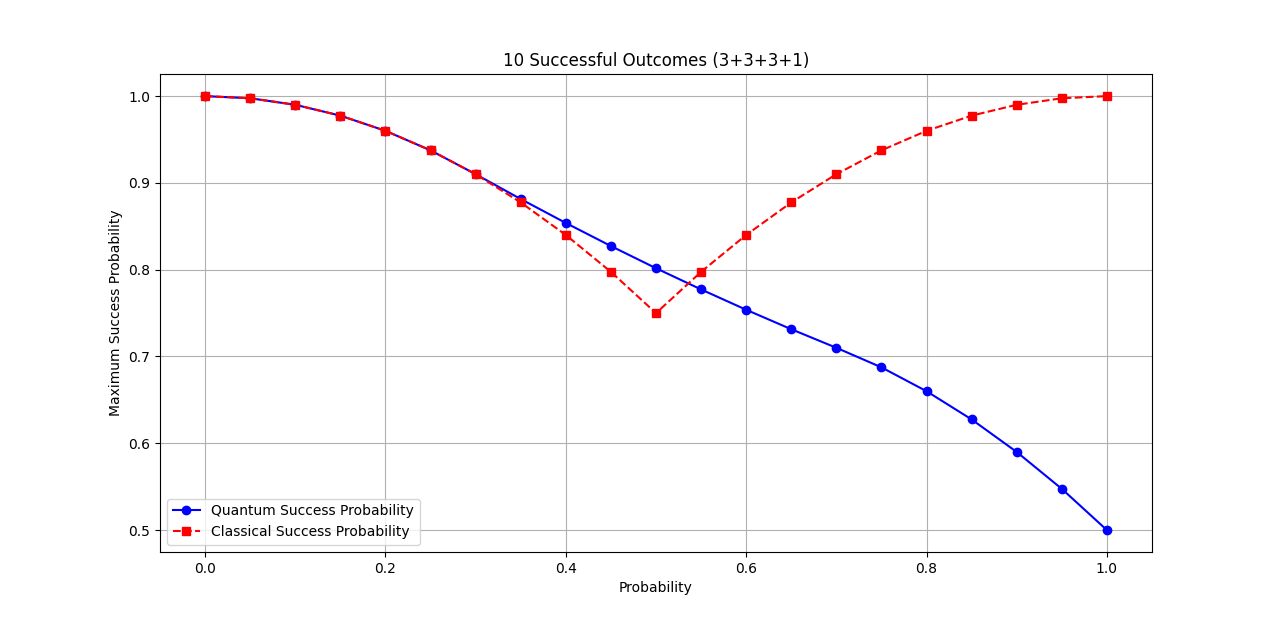
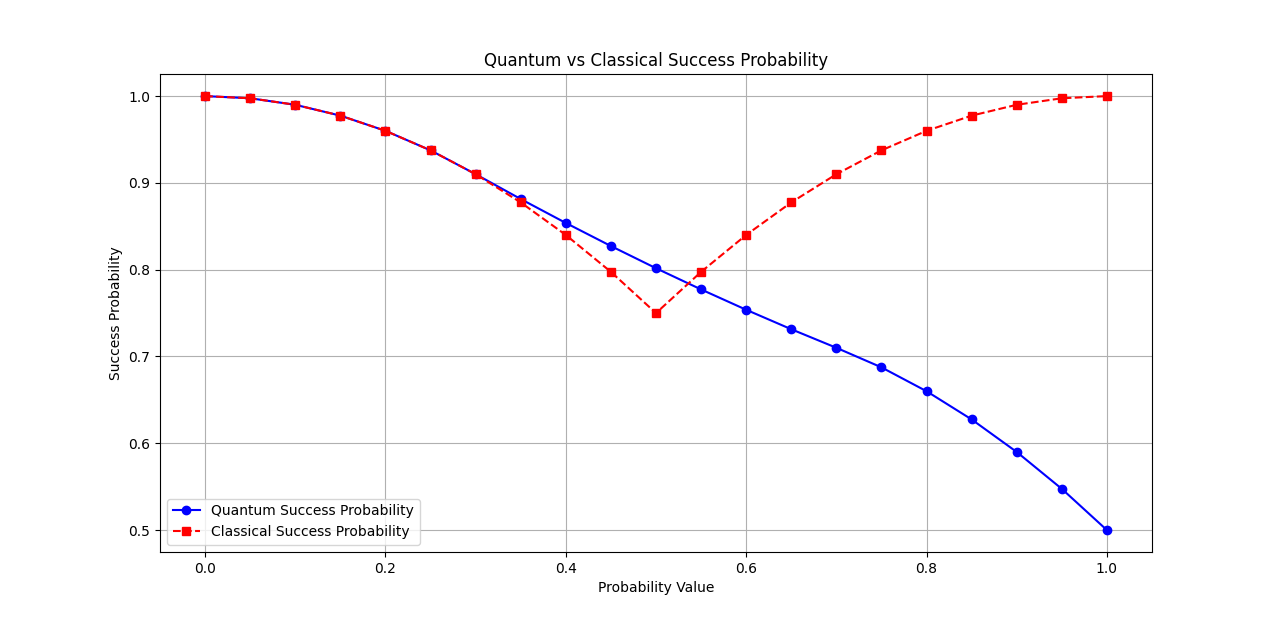
ALL CORRECTIONS DONE!!!

Changed region(s): [[0.375, 0.0613, 0.6562, 0.1226], [0.0625, 0.3677, 0.0938, 0.6742], [0.4688, 0.9194, 0.5625, 0.9806]]

diff --git a/9win_finalplot.py b/9win_finalplot.py
@@ -1,21 +1,27 @@
+import numpy as np
 import matplotlib.pyplot as plt
 
-# Data for plotting
-probability_values = [0, 0.05, 0.1, 0.15, 0.2, 0.25, 0.3, 0.35, 0.4, 0.45, 0.5, 0.55, 0.6, 0.65, 0.7, 0.75, 0.8, 0.85, 0.9, 0.95, 1]
-quantum_success_prob = [1, 0.97375, 0.945, 0.91375, 0.880408, 0.851038, 0.827614, 0.809987, 0.79817, 0.792217, 0.792036, 0.797827, 0.809341, 0.826849, 0.85, 0.875, 0.9, 0.925, 0.95, 0.975, 1]
-classical_success_prob = [1, 0.9975, 0.99, 0.9775, 0.96, 0.9375, 0.91, 0.8775, 0.84, 0.7975, 0.75, 0.7975, 0.84, 0.8775, 0.91, 0.9375, 0.96, 0.9775, 0.99, 0.9975, 1]
+# Data
+probability_values = np.array([0, 0.05, 0.1, 0.15, 0.2, 0.25, 0.3, 0.35, 0.4, 0.45, 0.5, 
+                               0.55, 0.6, 0.65, 0.7, 0.75, 0.8, 0.85, 0.9, 0.95, 1])
+quantum_success = np.array([1, 0.97375, 0.945, 0.91375, 0.880408, 0.851038, 0.827614, 
+                            0.809987, 0.79817, 0.792217, 0.792036, 0.797827, 0.809341, 
+                            0.826849, 0.85, 0.875, 0.9, 0.925, 0.95, 0.975, 1])
+classical_success = np.array([1, 0.9975, 0.99, 0.9775, 0.96, 0.9375, 0.91, 0.8775, 0.84, 
+                              0.7975, 0.75, 0.7975, 0.84, 0.8775, 0.91, 0.9375, 0.96, 
+                              0.9775, 0.99, 0.9975, 1])
 
-# Create plot
-plt.figure(figsize=(10, 6))
-plt.plot(probability_values, quantum_success_prob, label="Maximum Quantum Success Probability", color="blue", marker='o')
-plt.plot(probability_values, classical_success_prob, label="Maximum Classical Success Probability",linestyle='--', color="red", marker='s')
+# Plot
+plt.figure(figsize=(8, 5))
+plt.plot(probability_values, quantum_success, marker='o', linestyle='-', color='b', label='Quantum Success Probability')
+plt.plot(probability_values, classical_success, marker='s', linestyle='--', color='r', label='Classical Success Probability')
 
-# Adding titles and labels
-plt.title("9 Successful Outcomes (3+3+2+1)", fontsize=14)
-plt.xlabel("Probability Value", fontsize=12)
-plt.ylabel("Success Probability", fontsize=12)
+# Labels and Title
+plt.xlabel('Probability Value')
+plt.ylabel('Success Probability')
+plt.title('Quantum vs Classical Success Probability in 9 successful outcomes')
 plt.legend()
-
-# Show the plot
 plt.grid(True)
+
+# Show Plot
 plt.show()

diff --git a/10win_finalplot.py b/10win_finalplot.py
@@ -1,24 +1,27 @@
+import numpy as np
 import matplotlib.pyplot as plt
 
-# Data from the table
-probability = [0, 0.05, 0.1, 0.15, 0.2, 0.25, 0.3, 0.35, 0.4, 0.45, 
-               0.5, 0.55, 0.6, 0.65, 0.7, 0.75, 0.8, 0.85, 0.9, 0.95, 1]
-quantum_success = [1, 0.9975, 0.99, 0.9775, 0.96, 0.9375, 0.910043, 0.881406, 0.853844, 0.827266,
-                   0.801694, 0.777272, 0.753843, 0.731414, 0.71004, 0.6875, 0.66, 0.6275, 0.59, 0.5475, 0.5]
-classical_success = [1, 0.9975, 0.99, 0.9775, 0.96, 0.9375, 0.91, 0.8775, 0.84, 0.7975,
-                     0.75, 0.7975, 0.84, 0.8775, 0.91, 0.9375, 0.96, 0.9775, 0.99, 0.9975, 1]
+# Data
+probability_values = np.array([0, 0.05, 0.1, 0.15, 0.2, 0.25, 0.3, 0.35, 0.4, 0.45, 0.5, 
+                               0.55, 0.6, 0.65, 0.7, 0.75, 0.8, 0.85, 0.9, 0.95, 1])
+quantum_success = np.array([1, 0.9975, 0.99, 0.9775, 0.96, 0.9375, 0.910043, 0.881406, 0.853844, 
+                            0.827266, 0.801694, 0.777272, 0.753843, 0.731414, 0.71004, 0.6875, 
+                            0.66, 0.6275, 0.59, 0.5475, 0.5])
+classical_success = np.array([1, 0.9975, 0.99, 0.9775, 0.96, 0.9375, 0.91, 0.8775, 0.84, 
+                              0.7975, 0.75, 0.7975, 0.84, 0.8775, 0.91, 0.9375, 0.96, 
+                              0.9775, 0.99, 0.9975, 1])
 
-# Plotting
-plt.figure(figsize=(10, 6))
-plt.plot(probability, quantum_success, marker='o', linestyle='-', label="Quantum Success Probability", color='b')
-plt.plot(probability, classical_success, marker='s', linestyle='--', label="Classical Success Probability", color='r')
+# Plot
+plt.figure(figsize=(8, 5))
+plt.plot(probability_values, quantum_success, marker='o', linestyle='-', color='b', label='Quantum Success Probability')
+plt.plot(probability_values, classical_success, marker='s', linestyle='--', color='r', label='Classical Success Probability')
 
-# Labels and title
-plt.xlabel("Probability")
-plt.ylabel("Maximum Success Probability")
-plt.title("10 Successful Outcomes (3+3+3+1)")
+# Labels and Title
+plt.xlabel('Probability Value')
+plt.ylabel('Success Probability')
+plt.title('Quantum vs Classical Success Probability')
 plt.legend()
 plt.grid(True)
 
-# Show plot
+# Show Plot
 plt.show()

diff --git a/8win_notchsh_finalplot.py b/8win_notchsh_finalplot.py
@@ -1,24 +1,20 @@
 import matplotlib.pyplot as plt
+import numpy as np
 
-# Data from the table
-probability = [0, 0.05, 0.1, 0.15, 0.2, 0.25, 0.3, 0.35, 0.4, 0.45, 
-               0.5, 0.55, 0.6, 0.65, 0.7, 0.75, 0.8, 0.85, 0.9, 0.95, 1]
-
-quantum_success = [1, 0.975, 0.95, 0.925, 0.9, 0.875, 0.85, 0.825, 0.802452, 
-                   0.78729, 0.77943, 0.778669, 0.784912, 0.798033, 0.818228, 
-                   0.845665, 0.88, 0.91375, 0.945, 0.97375, 1]
-
-classical_success = [1] * len(probability)  # Classical success is always 1
+# Given data
+p_values = np.array([0, 0.05, 0.1, 0.15, 0.2, 0.25, 0.3, 0.35, 0.4, 0.45, 0.5, 0.55, 0.6, 0.65, 0.7, 0.75, 0.8, 0.85, 0.9, 0.95, 1])
+quantum_success_prob = np.array([1, 0.975, 0.95, 0.925, 0.9, 0.875, 0.85, 0.825, 0.802452, 0.78729, 0.77943, 0.778669, 0.784912, 0.798033, 0.818228, 0.845665, 0.88, 0.91375, 0.945, 0.97375, 1])
+classical_win_prob = np.array([1, 0.9975, 0.99, 0.9775, 0.96, 0.9375, 0.91, 0.8775, 0.84, 0.7975, 0.75, 0.7975, 0.84, 0.8775, 0.91, 0.9375, 0.96, 0.9775, 0.99, 0.9975, 1])
 
 # Plotting
-plt.figure(figsize=(10, 6))
-plt.plot(probability, quantum_success, marker='o', linestyle='-', label="Quantum Success Probability", color='b')
-plt.plot(probability, classical_success, marker='s', linestyle='--', label="Classical Success Probability", color='r')
+plt.figure(figsize=(8, 6))
+plt.plot(p_values, quantum_success_prob, marker='o', linestyle='-', color='b', label="Maximum Quantum Success Probability")
+plt.plot(p_values, classical_win_prob, marker='s', linestyle='--', color='r', label="Maximum Classical Win Probability")
 
 # Labels and title
-plt.xlabel("Probability")
-plt.ylabel("Maximum Success Probability")
-plt.title("8 Successful Outcomes -Not CHSH")
+plt.xlabel("p value")
+plt.ylabel("Win Probability")
+plt.title("Probability Value vs Maximum Classical & Quantum Success Probability in 8-win Not CHSH Game")
 plt.legend()
 plt.grid(True)
 

diff --git a/8win_2.py b/8win_2.py
@@ -9,20 +9,20 @@ import pandas as pd
 #     "0y", "1y", "0y'", "1y'"
 # Define the probability expressions for 16 strategies
 def s0(p): return p**2-p+1
-def s1(p): return p
-def s2(p): return 0
+def s1(p): return p- p**2
+def s2(p): return p**2
 def s3(p): return p**2-p+1
 def s4(p): return 2*p**2-2*p+1
-def s5(p): return p-p**2
-def s6(p): return p
+def s5(p): return p
+def s6(p): return p-p**2
 def s7(p): return p**2+1-p
 def s8(p): return p
-def s9(p): return 2*p**2-2*p+1
-def s10(p): return 1+p**2-2*p
+def s9(p): return p**2-2*p+1
+def s10(p): return 2*p**2-2*p+1
 def s11(p): return  2*p-p**2
 def s12(p): return p**2
-def s13(p): return 1-p
-def s14(p): return 1
+def s13(p): return p**2-p+1
+def s14(p): return 1-p**2
 def s15(p): return p**2    
 
 

diff --git a/6win_finalplot.py b/6win_finalplot.py
@@ -11,10 +11,9 @@ quantum_success = [
     0.551698, 0.579769, 0.613843, 0.653912, 0.700043, 0.75, 0.8, 0.85, 0.9, 0.95, 1
 ]
 
-classical_success = [
-    1, 0.905, 0.82, 0.745, 0.68, 0.625, 0.58, 0.545, 0.52, 0.505,
-    0.5, 0.55, 0.6, 0.65, 0.7, 0.75, 0.8, 0.85, 0.9, 0.95, 1
-]
+classical_success = [1, 0.905, 0.82, 0.745, 0.68, 0.625, 0.58, 0.545, 0.52, 0.505, 
+                   0.5, 0.55, 0.6, 0.65, 0.7, 0.75, 0.8, 0.85, 0.9, 0.95, 1]
+
 
 # Create the plot
 plt.figure(figsize=(10, 6))

diff --git a/6win.py b/6win.py
@@ -14,8 +14,8 @@ def s6(p): return 2 * p ** 2 - 2 * p + 1
 def s7(p): return p * (1 - p)
 def s8(p): return 2* p ** 2 + 1 - 2 * p
 def s9(p): return p ** 2
-def s10(p): return 2*p- 2* p ** 2
-def s11(p): return  p ** 2
+def s10(p): return p ** 2
+def s11(p): return 2*p- 2* p ** 2  
 def s12(p): return p** 2
 def s13(p): return p
 def s14(p): return p

diff --git a/9win.py b/9win.py
@@ -17,8 +17,8 @@ def s9(p): return 1-p ** 2
 def s10(p): return 1-p
 def s11(p): return 2*p**2-2*p+1
 def s12(p): return p**2-p+1
-def s13(p): return 1-p
-def s14(p): return 1+p**2-2*p
+def s13(p): return 1+p**2-2*p
+def s14(p): return 1-p
 def s15(p): return 2*p - p**2
 
 # Vectorize each function

diff --git a/10win.py b/10win.py
@@ -17,8 +17,8 @@ def s9(p): return 1-p
 def s10(p): return 2*p-2*p**2
 def s11(p): return 1-p**2
 def s12(p): return 1+p**2-p
-def s13(p): return 2*p-2*p**2
-def s14(p): return 1-p
+def s13(p): return 1-p
+def s14(p): return 2*p-2*p**2
 def s15(p): return 1-p**2
 
 # Vectorize each function
